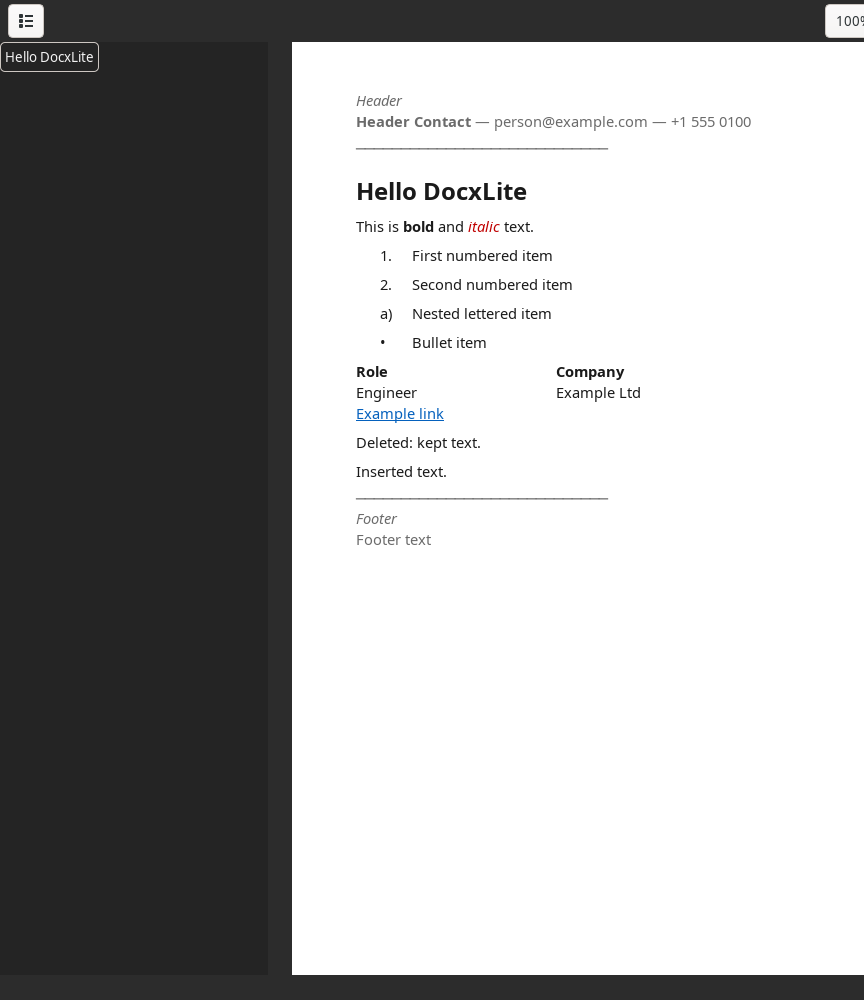
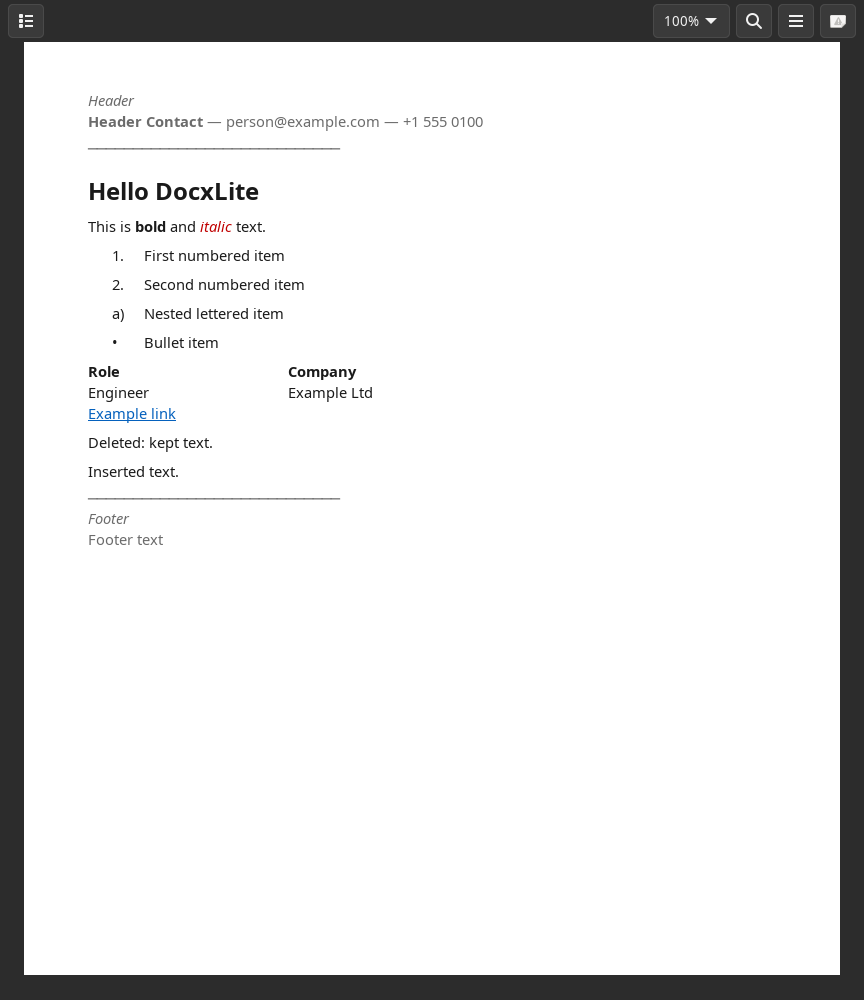
Match toolbar buttons to the grey chrome

diff --git a/src/ui.rs b/src/ui.rs
@@ -76,6 +76,9 @@ fn install_css() {
          .docx-page { background-color: #ffffff; }\n\
          .docx-text { background-color: #ffffff; color: #1a1a1a; }\n\
          .docx-toolbar { background-color: #2c2c2c; padding: 4px 8px; }\n\
+         .docx-toolbar button, .docx-toolbar menubutton > button { background-color: #3a3a3a; background-image: none; color: #f2f2f2; border-color: #4a4a4a; box-shadow: none; }\n\
+         .docx-toolbar button:hover, .docx-toolbar menubutton > button:hover { background-color: #484848; }\n\
+         .docx-toolbar button:checked, .docx-toolbar menubutton > button:checked { background-color: #555555; }\n\
          .docx-scroll { background-color: #2c2c2c; }\n\
          .docx-sidebar-list { background-color: #242424; }\n\
          .docx-sidebar-list button { background: transparent; color: #f2f2f2; padding: 2px 4px; }\n\
